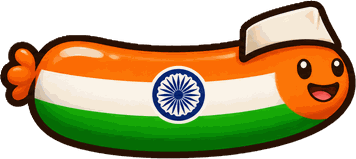
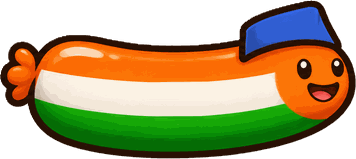
Mexico without the coat of arms, India without the wheel and with a plain cap; add Great Outdogs national parks Collection (Apr 20, 2027); wire Dec 8 Stripe ids
Claude-Session: https://claude.ai/code/session_01LSUbyf9SJUUbbkD7jEgTGb

Changed region(s): [[0.4017, 0.4025, 0.5871, 0.7799], [0.6798, 0.0252, 0.9579, 0.3522]]

diff --git a/game.html b/game.html
@@ -925,6 +925,15 @@ const SKINS = [
   { id: 'southkorea', name: 'South Korea', group: 'globalgrill', frames: 1, fly: [-42.9, -26.6, 81.8, 41.1], bun: [-41.9, -51.8, 83.7, 53.7], grill: [-41.7, -65.4, 83.6, 67.3] },
   { id: 'china', name: 'China', group: 'globalgrill', frames: 1, fly: [-46.2, -29.6, 88.4, 44.1], bun: [-44.6, -51.7, 88.5, 53.6], grill: [-43.9, -72.4, 88.0, 74.3] },
   { id: 'india', name: 'India', group: 'globalgrill', frames: 1, fly: [-46.5, -25.1, 89.0, 39.6], bun: [-44.2, -49.8, 87.2, 51.7], grill: [-45.0, -75.0, 89.3, 76.9] },
+  { id: 'acadia', name: 'Acadia', group: 'greatoutdogs', frames: 1, fly: [-44.4, -30.9, 84.8, 45.4], bun: [-43.0, -55.0, 85.1, 56.9], grill: [-43.0, -68.7, 86.4, 70.6] },
+  { id: 'arches', name: 'Arches', group: 'greatoutdogs', frames: 1, fly: [-46.2, -41.6, 88.4, 56.1], bun: [-42.3, -63.8, 86.3, 65.7], grill: [-42.4, -75.2, 86.6, 77.1] },
+  { id: 'grandcanyon', name: 'Grand Canyon', group: 'greatoutdogs', frames: 1, fly: [-44.5, -24.3, 85.0, 38.8], bun: [-41.9, -48.1, 85.4, 50.0], grill: [-41.5, -65.3, 84.6, 67.2] },
+  { id: 'grandteton', name: 'Grand Teton', group: 'greatoutdogs', frames: 1, fly: [-44.6, -33.6, 85.1, 48.1], bun: [-42.4, -56.7, 85.1, 58.6], grill: [-42.6, -69.8, 85.0, 71.7] },
+  { id: 'smokymountains', name: 'Smoky Mountains', group: 'greatoutdogs', frames: 1, fly: [-42.3, -29.1, 80.5, 43.6], bun: [-41.8, -54.4, 83.9, 56.3], grill: [-42.0, -70.0, 84.2, 71.9] },
+  { id: 'hawaiivolcanoes', name: 'Hawaii Volcanoes', group: 'greatoutdogs', frames: 1, fly: [-45.5, -35.0, 87.0, 49.5], bun: [-41.9, -54.2, 87.1, 56.1], grill: [-42.3, -73.1, 87.3, 75.0] },
+  { id: 'yellowstone', name: 'Yellowstone', group: 'greatoutdogs', frames: 1, fly: [-42.8, -30.3, 81.7, 44.8], bun: [-41.8, -55.9, 84.6, 57.8], grill: [-42.2, -69.7, 84.5, 71.6] },
+  { id: 'yosemite', name: 'Yosemite', group: 'greatoutdogs', frames: 1, fly: [-46.4, -37.3, 88.9, 51.8], bun: [-42.3, -60.4, 88.6, 62.3], grill: [-42.5, -76.3, 88.8, 78.2] },
+  { id: 'zion', name: 'Zion', group: 'greatoutdogs', frames: 1, fly: [-47.3, -37.0, 90.7, 51.5], bun: [-44.5, -59.2, 90.8, 61.1], grill: [-44.3, -73.5, 90.8, 75.4] },
   { id: 'mechapilot', name: 'Mecha Pilot', group: 'bunime', frames: 1, fly: [-42.0, -25.4, 80.0, 39.9], bun: [-41.9, -49.5, 84.5, 51.4], grill: [-42.4, -66.9, 84.9, 68.8] },
   { id: 'starguardian', name: 'Magical Star', group: 'bunime', frames: 1, fly: [-46.3, -28.8, 88.6, 43.3], bun: [-42.6, -50.9, 88.2, 52.8], grill: [-42.4, -66.1, 88.0, 68.0] },
   { id: 'swordsman', name: 'Wandering Swordsman', group: 'bunime', frames: 1, fly: [-43.3, -34.0, 82.5, 48.5], bun: [-41.8, -54.8, 83.7, 56.7], grill: [-41.4, -71.6, 83.7, 73.5] },
@@ -971,6 +980,7 @@ const SKIN_GROUPS = { earn: { name: 'Free & Earned', how: 'earn' }, holiday: { n
   homeontherange: { name: 'Home on the Range', how: 'shop', from: dropAt(2027, 2, 16) },   // ranch and wild West animals
   birdbrains: { name: 'Bird Brains', how: 'shop', from: dropAt(2027, 2, 23) },
   bunime: { name: 'Bun-ime', how: 'shop', from: dropAt(2027, 3, 9) },   // anime-style pack (generic names, no franchise characters)
+  greatoutdogs: { name: 'Great Outdogs', how: 'shop', from: dropAt(2027, 4, 20) },   // national parks pack, National Park Week (generic badges, no NPS arrowhead)
   eurofranks: { name: 'Euro Franks', how: 'shop', from: dropAt(2027, 6, 15) },   // flags pack, part 1 (stylized flags, no coats of arms beyond simplified Croatia)
   globalgrill: { name: 'Global Grill', how: 'shop', from: dropAt(2027, 6, 22) },   // flags pack, part 2, week of the Women's World Cup kickoff
   redwhiteandbun: { name: 'Red, White & Bun', how: 'shop', from: dropAt(2027, 6, 29) },   // held for July 4
@@ -1080,7 +1090,7 @@ const BUX_COST = 300, BUX_DAILY = 25;
 // Limited Edition: costumes (one or two per Collection) that can only be bought, never unlocked with BunBux (same list as BUX_LIMITED in the API)
 const SKINS_LIMITED = ['santa', 'bernedoodle', 'labradoodle', 'persian', 'mainecoon', 'slamdunk', 'goalgetter', 'axolotl', 'anglerfish', 'unidentifiedfryingobject', 'babykaiju', 'phoenix', 'shadowwizard',
   'glazedandconfused', 'blanketburrito', 'royaltreatment', 'raccoon', 'forkimpostor', 'professorfrank', 'glowgetter', 'specialdelivery',
-  'discodog', 'maneevent', 'king', 'hotrod', 'witch', 'highland', 'bison', 'flamingo', 'ladyliberty', 'powerup', 'unitedkingdom', 'unitedstates'];
+  'discodog', 'maneevent', 'king', 'hotrod', 'witch', 'highland', 'bison', 'flamingo', 'ladyliberty', 'powerup', 'unitedkingdom', 'unitedstates', 'hawaiivolcanoes'];
 function skinLimited(id) { return SKINS_LIMITED.indexOf(id) >= 0; }
 // Everyone gets the same challenge each day (midnight Pacific). Same list and order as DAILY in functions/api/[[path]].js
 const DAILY = [['streak', 10], ['boxes', 2], ['franks', 20], ['chili', 1], ['streak', 12], ['boxes', 3], ['franks', 25], ['streak', 15],
@@ -1325,7 +1335,13 @@ const SHOP_STRIPE = {
   skin_moonrover: ['price_1UeqGg6LJdPzXq2b1oAWsBik', 'prod_VgCgyYNHzkwJKM'], skin_jurassicpork: ['price_1UeqGl6LJdPzXq2bAaVnxGCV', 'prod_VgCgyqIBJiJzf5'],
   skin_triceratops: ['price_1UeqGq6LJdPzXq2bdE64SOmf', 'prod_VgCgXbTAyKJ5MT'], skin_stegosaurus: ['price_1UeqH96LJdPzXq2bUjH0TWAJ', 'prod_VgCg6H9JkoQZgK'],
   skin_pterodactyl: ['price_1UeqHE6LJdPzXq2bKQG9wYIn', 'prod_VgCgKr7RNMsfnw'], skin_babykaiju: ['price_1UeqHJ6LJdPzXq2bOTEosbQ9', 'prod_VgCgMNGzP59iHt'],
-  col_spacecases: ['price_1UeqL56LJdPzXq2b26msqr60', 'prod_VgCkzWsueWmiAF'], col_tinyterrors: ['price_1UeqLB6LJdPzXq2bnYqdWUDx', 'prod_VgCkiCQgWYaZV8']
+  col_spacecases: ['price_1UeqL56LJdPzXq2b26msqr60', 'prod_VgCkzWsueWmiAF'], col_tinyterrors: ['price_1UeqLB6LJdPzXq2bnYqdWUDx', 'prod_VgCkiCQgWYaZV8'],
+  skin_fairy: ['price_1UfCz06LJdPzXq2bCfYc6hxI', 'prod_Vga975lD8OBU0L'], skin_griffin: ['price_1UfCzw6LJdPzXq2bIy8H3TDa', 'prod_VgaA3uf8mWzASZ'],
+  skin_phoenix: ['price_1UfD0V6LJdPzXq2bDlwvZMxu', 'prod_VgaAHKnlN7RU0X'], skin_seaserpent: ['price_1UfD0y6LJdPzXq2bHQ6Jkk0R', 'prod_VgaByGZsJST2XQ'],
+  skin_yetiornot: ['price_1UfD1R6LJdPzXq2bD2mbVcLB', 'prod_VgaBj8Uf3E3iMb'], col_mythicalmisfits: ['price_1UfD6u6LJdPzXq2bzeGOfAQw', 'prod_VgaHghx4YwWIGF'],
+  skin_maneevent: ['price_1UfD1u6LJdPzXq2bOZGFBpqg', 'prod_VgaCLyEzeQCi7k'], skin_stripehype: ['price_1UfD376LJdPzXq2b2xpSUnFe', 'prod_VgaDQ3qqy1qAgK'],
+  skin_pandamonium: ['price_1UfD5x6LJdPzXq2b5gOyylBi', 'prod_VgaGR5oZzwEIXg'], skin_trunkshow: ['price_1UfD6Q6LJdPzXq2bjVoqekFJ', 'prod_VgaG30WP26Mql8'],
+  col_wildthings: ['price_1UfD7O6LJdPzXq2bOvHEILSF', 'prod_VgaHku9oSzFQay']
 };
 function shopIdOf(storeId) {
   if (shopProducts()[storeId]) return storeId;

diff --git a/functions/api/[[path]].js b/functions/api/[[path]].js
@@ -17,7 +17,7 @@ const BUX = { perBox: 1, maxBoxes: 10, daily: 25, cap: 100, cost: 300 };   // ca
 // Limited Edition costumes are purchase only (same list as SKINS_LIMITED in game.html)
 const BUX_LIMITED = new Set(['santa', 'bernedoodle', 'labradoodle', 'persian', 'mainecoon', 'slamdunk', 'goalgetter', 'axolotl', 'anglerfish', 'unidentifiedfryingobject', 'babykaiju', 'phoenix', 'shadowwizard',
   'glazedandconfused', 'blanketburrito', 'royaltreatment', 'raccoon', 'forkimpostor', 'professorfrank', 'glowgetter', 'specialdelivery',
-  'discodog', 'maneevent', 'king', 'hotrod', 'witch', 'highland', 'bison', 'flamingo', 'ladyliberty', 'powerup', 'unitedkingdom', 'unitedstates']);
+  'discodog', 'maneevent', 'king', 'hotrod', 'witch', 'highland', 'bison', 'flamingo', 'ladyliberty', 'powerup', 'unitedkingdom', 'unitedstates', 'hawaiivolcanoes']);
 // The only costumes BunBux can unlock: the ones in Collections that are on sale (SHOP_COLS in game.html), minus Limited Edition.
 // Anything else (Free & Earned, Collections not on sale yet) is refused. When a Collection goes on sale, add its costumes here.
 const BUX_SKINS = new Set([
@@ -45,6 +45,7 @@ const BUX_DROPS = [
   [Date.UTC(2027, 1, 23, 8), ['flamingo', 'toucan', 'snowyowl', 'barnowl', 'emperorpenguin', 'rockhopper']],   // birdbrains
   [Date.UTC(2027, 2, 2, 8), ['homerun', 'doggypaddle', 'cleanandjerk']],   // added to sports
   [Date.UTC(2027, 2, 9, 8), ['mechapilot', 'starguardian', 'swordsman', 'powerup']],   // bunime
+  [Date.UTC(2027, 3, 20, 8), ['acadia', 'arches', 'grandcanyon', 'grandteton', 'smokymountains', 'hawaiivolcanoes', 'yellowstone', 'yosemite', 'zion']],   // greatoutdogs
   [Date.UTC(2027, 5, 15, 8), ['unitedkingdom', 'france', 'germany', 'poland', 'croatia', 'switzerland', 'ukraine']],   // eurofranks
   [Date.UTC(2027, 5, 22, 8), ['unitedstates', 'canada', 'mexico', 'australia', 'japan', 'southkorea', 'china', 'india']],   // globalgrill
   [Date.UTC(2027, 5, 29, 8), ['ladyliberty', 'libertybell', 'baldeagle', 'fogcitybridge']],   // redwhiteandbun

diff --git a/new-art/collection-drops-store-items.md b/new-art/collection-drops-store-items.md
@@ -14,7 +14,7 @@ If a drop's items aren't ready on time, the Collection still appears and BunBux 
 
 ★ marks a Limited Edition costume: purchase only, never BunBux.
 
-Total: 25 Collections, 127 costumes plus 3 added to Sports, so 155 items in each store.
+Total: 26 Collections, 136 costumes plus 3 added to Sports, so 165 items in each store.
 
 ## Tue Dec 1, 2026  (create by Nov 24)
 
@@ -220,6 +220,21 @@ Also update the Sports Collection's store description from 5 to 8 costumes. Ever
 | skin_swordsman | Wandering Swordsman | $0.99 |
 | skin_powerup | Power-Up Hero ★ | $0.99 |
 | col_bunime | Bun-ime Collection (4 costumes) | $3.99 |
+
+## Tue Apr 20, 2027  (create by Apr 13; national parks, National Park Week)
+
+| Product id | Name | Price |
+|---|---|---|
+| skin_acadia | Acadia | $0.99 |
+| skin_arches | Arches | $0.99 |
+| skin_grandcanyon | Grand Canyon | $0.99 |
+| skin_grandteton | Grand Teton | $0.99 |
+| skin_smokymountains | Smoky Mountains | $0.99 |
+| skin_hawaiivolcanoes | Hawaii Volcanoes ★ | $0.99 |
+| skin_yellowstone | Yellowstone | $0.99 |
+| skin_yosemite | Yosemite | $0.99 |
+| skin_zion | Zion | $0.99 |
+| col_greatoutdogs | Great Outdogs Collection (9 costumes) | $3.99 |
 
 ## Tue Jun 15, 2027  (create by Jun 8; flags pack, part 1)
 
